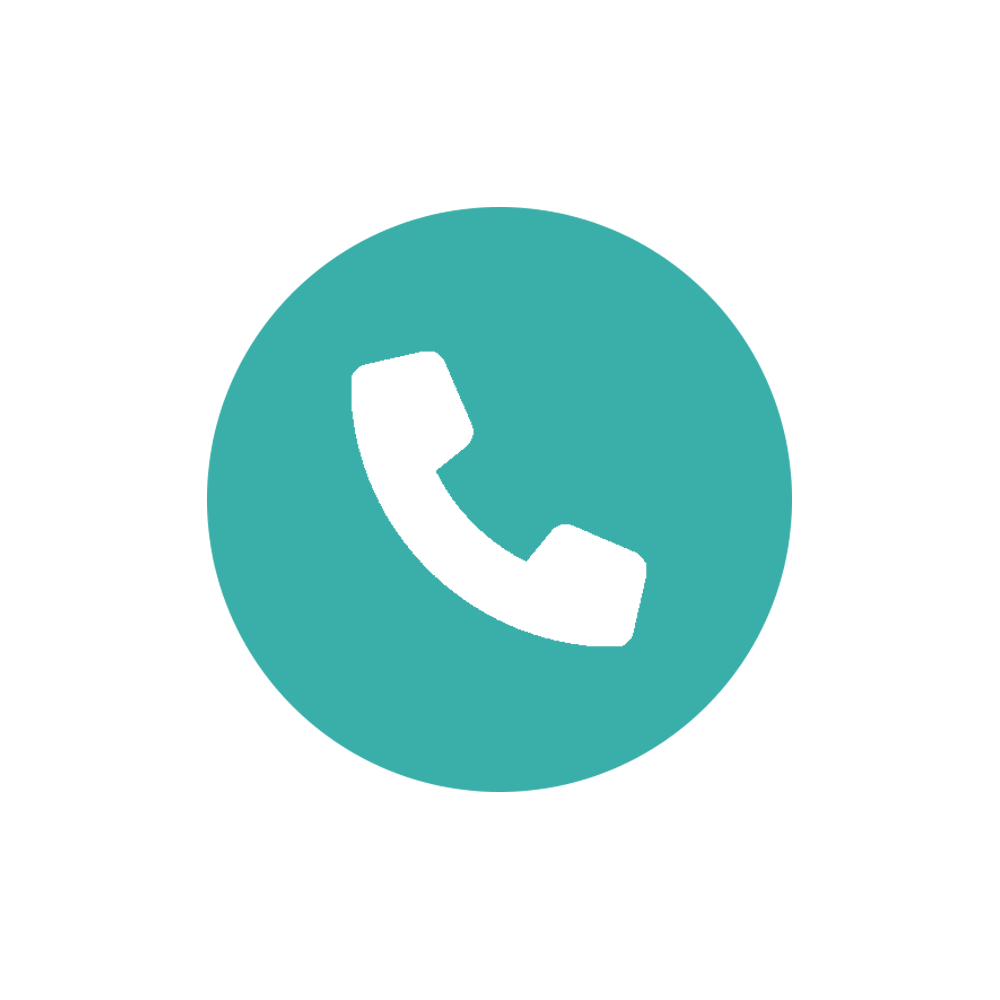
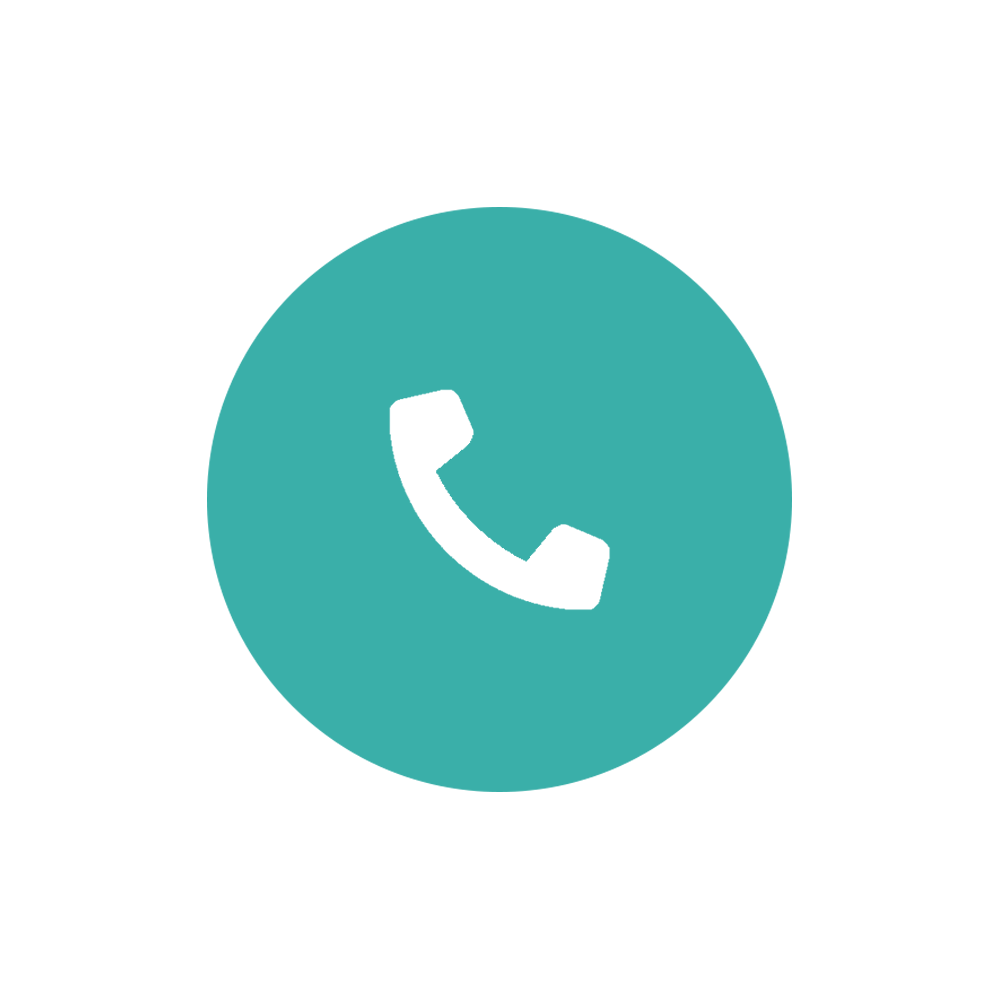
page contact desktop sans le formulaire

Changed region(s): [[0.341, 0.341, 0.651, 0.651]]

diff --git a/src/components/Contacts/index.js b/src/components/Contacts/index.js
@@ -2,6 +2,8 @@
 import './style.scss';
 import HomeHeader from '../Header/HomeHeader';
 import phoneIcon from '../../assets/image/phone-solid.png';
+import mailIcon from '../../assets/image/mail-solid.png';
+import locIcon from '../../assets/image/loc-solid.png';
 
 function Contacts() {
   return (
@@ -9,28 +11,58 @@ function Contacts() {
       <div className="caroussel">
         <HomeHeader />
       </div>
+
       <div className="bloc__contact">
         
         <h1>Contact Us</h1>
 
         <div className="item__container">
 
-          <div className="phone__contact">
+          <div className="phone__bloc">
 
-            <div className="phone__icon">
-
-              <img src={phoneIcon} alt="" className="phone__icon" />
-
+            <div className="phone__picto">
+              <img src={phoneIcon} alt="" className="phone__img" />
             </div>
+            
 
             <div className="phone__number">
 
               <h1>CALL US</h1>
-              <p> France: +33 245897831 </p>
-              <br/>
-              <p> International: +1 385-954-6666 </p>
+              <p> <strong>France:</strong>+33 245897831 </p>
+              <p> <strong>International:</strong> +1 385-954-6666 </p>
 
             </div>
+
+          </div>
+
+          <div className="mail__bloc">
+            <div className="mail__picto">
+              <img src={mailIcon} alt="" className="mail__img" />
+            </div>
+            
+            <div className="mail__adress">
+              <h1>MAIL US</h1>
+              <p> <strong>Mail adress: </strong>admin@gmail.com </p>
+
+            </div>
+
+
+
+          </div>
+
+
+          <div className="location__bloc">
+            <div className="location__picto">
+              <img src={locIcon} alt="" className="location__img" />
+            </div>
+            
+            <div className="location__adress">
+              <h1>FIND US</h1>
+              <p> <strong>Postal adress: </strong>fake adress, </p>
+
+            </div>
+
+
 
           </div>
 

diff --git a/src/components/Contacts/style.scss b/src/components/Contacts/style.scss
@@ -2,39 +2,67 @@
 
 .bloc__contact {
 
-  width: 75%;
+  width: 80%;
   margin: auto;
-  height: 20vh;
-  margin-top: 2.5em;
+  height: 30vh;
+  margin-top: 4em;
   
-  
-
-  h1 {
-
-    font-size: 2.2rem;
-    
-
-  }
 
   .item__container {
 
-    background-color: vars.$color-light1;
-    max-width: 90%;
+    // background-color: vars.$color-light1;
+    max-width: 100%;
     height: 100%;
     margin:auto;
+    display:flex;
+    }
+
+
+    .phone__bloc, .mail__bloc, .location__bloc {
+
+      display: flex;
+      width: 40%;
+
+
+      .phone__picto, .mail__picto, .location__picto {
+
+        width: 40%;
+
+          .phone__img, .mail__img, .location__img {
+
+            width:100%;
+          }
+      }
+    
+
+      .phone__number, .mail__adress, .location__adress {
+
+        width: 60%;
+        text-align: left;
+        box-sizing: border-box;
+        padding-top: 2em;
+
+        p {
+          line-height: 0.2em;
+
+        }
+
+
+        h1 {
+          font-size: 1.5em;
+          text-align: left;
+        }
+
+      }
+
+    }
+
+
+    
+
+    
   }
 
-  .phone__contact {
-
-    display: flex;
-  }
-
-  .phone__icon {
-
-    width: 35%;
-  }
-
-}
 
 
 @media screen and (min-width: 1025px) {
